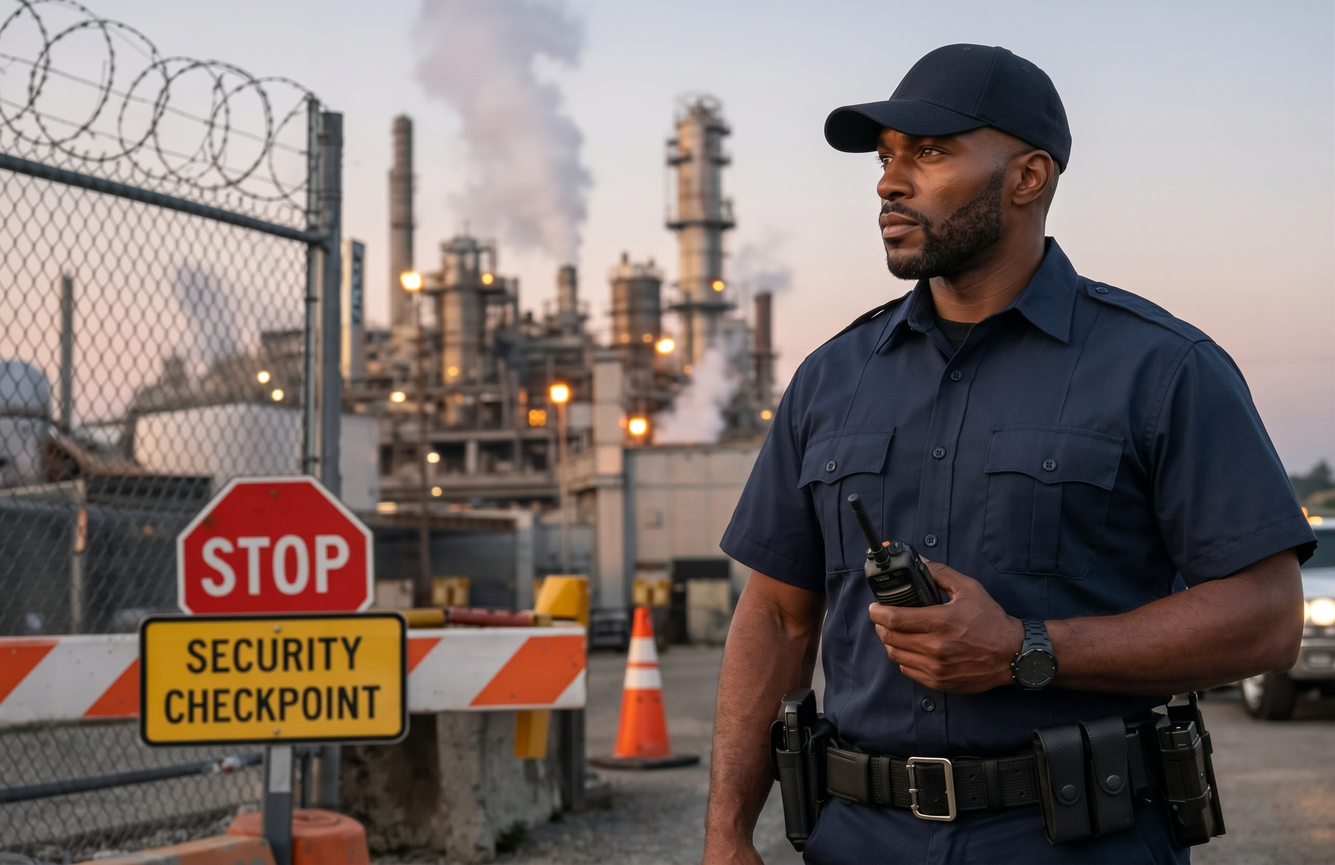
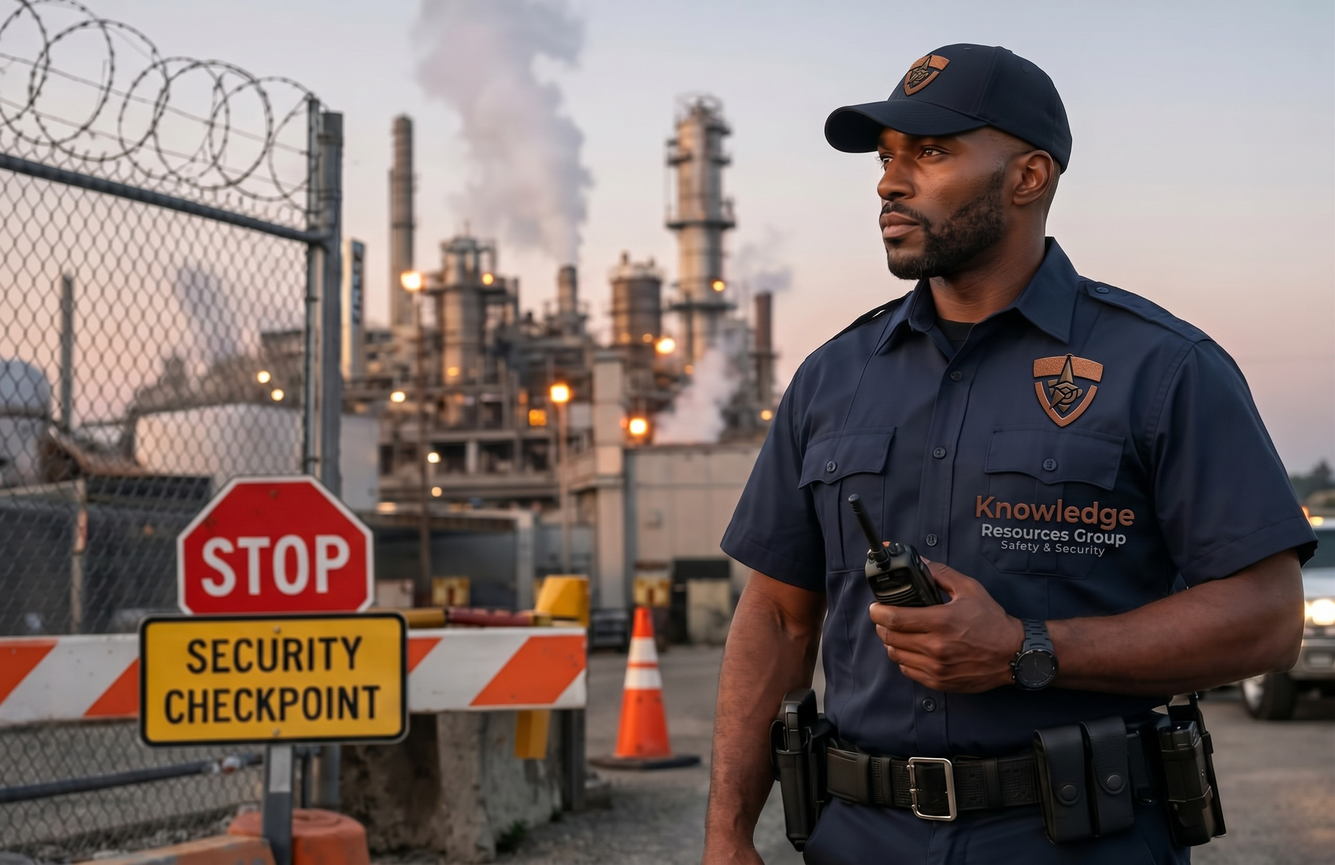
first commit 27

diff --git a/index.html b/index.html
@@ -253,7 +253,7 @@
                 <!-- 3. Agricultural & Rural Security -->
                 <div class="service-card">
                     <div class="service-img">
-                        <img src="images/farmsec.PNG" alt="Agricultural & Rural Security">
+                        <img src="images/farmsec.jpg" alt="Agricultural & Rural Security">
                     </div>
                     <div class="service-details">
                         <h3>Agricultural & Rural Security</h3>
